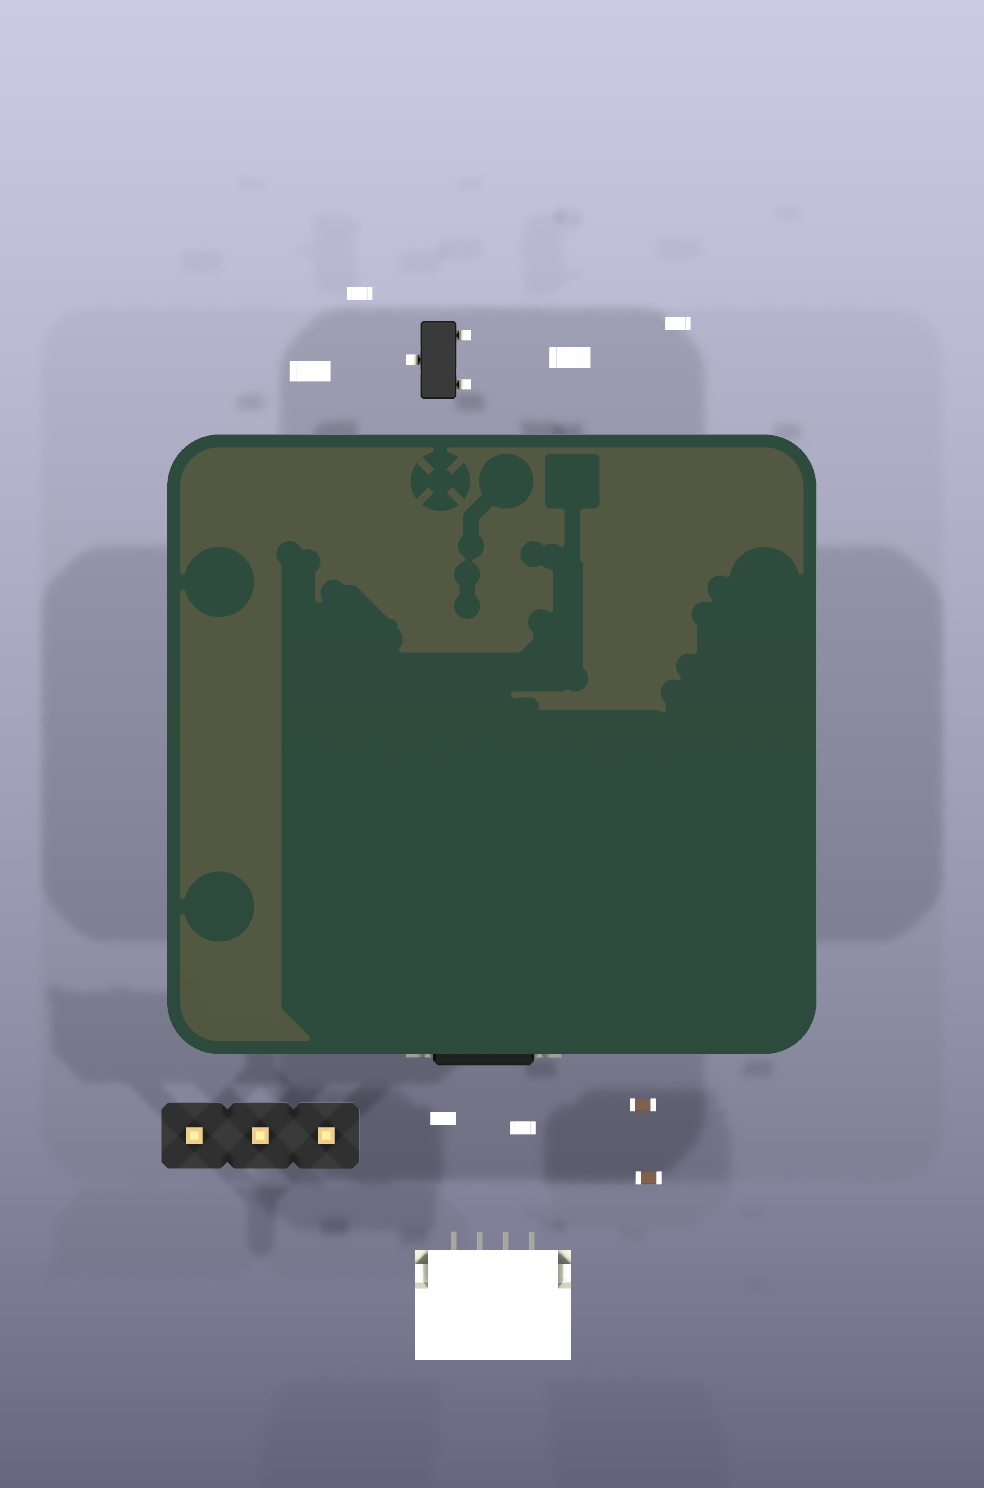
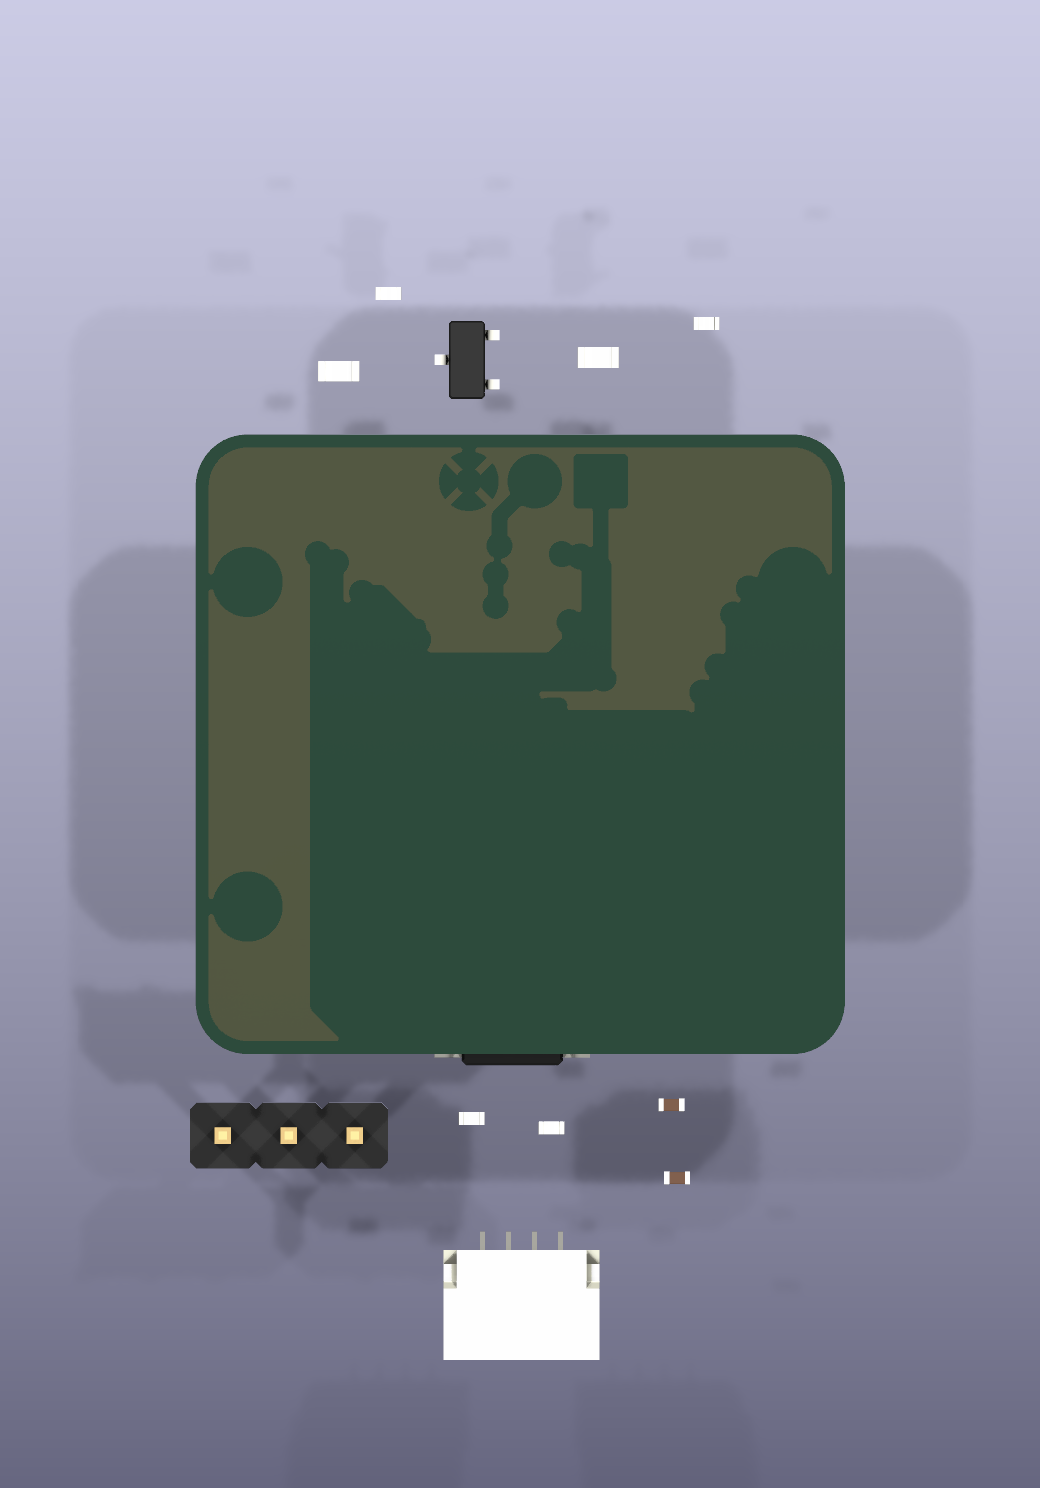
README: give the three board images a matching size
Markdown image syntax cannot set a size, so each image rendered at its
intrinsic one: the PNGs at 1000x1500 and the SVG at its 32.4 x 45.9 mm
page, which is about 122 x 173 px.  The layout column collapsed to a
thumbnail next to two full-height photos.

The images are now <img> tags at a common width="300", and the 3D
renders are generated at the SVG's aspect ratio rather than 2:3 so the
three panels are the same shape.  That ratio is read back out of the
generated SVG instead of being hardcoded, so the images stay matched if
the board outline changes -- KiCad's "board area only" page follows the
content, which currently includes the eleven off-board footprints.

Widening the render from 1000 to 1059 px only adds side margin; nothing
is cropped.

Claude-Session: https://claude.ai/code/session_01NAtQfzwuXNuQMrD3BxPvxL

diff --git a/hardware/tools/render_board.py b/hardware/tools/render_board.py
@@ -19,6 +19,7 @@ Usage (from the repository root):
     uv run hardware/tools/render_board.py
 """
 
+import re
 import subprocess
 import sys
 from pathlib import Path
@@ -32,7 +33,11 @@ KICAD_CLI = "/snap/bin/kicad.kicad-cli"
 # resolve to nothing unless this is handed to it explicitly.
 MODEL_DIR = "/snap/kicad/current/usr/share/kicad/3dmodels"
 
-WIDTH, HEIGHT = 1000, 1500
+# The three images sit side by side in the README, so they are given a common
+# aspect ratio: the SVG's page is whatever KiCad's "board area only" mode
+# computes, and the 3D renders are widened to match it.  Deriving the width
+# instead of hardcoding it keeps them matched if the board outline changes.
+HEIGHT = 1500
 ZOOM = "0.45"  # fits the off-board footprints too; see the note above
 LAYERS = "F.Cu,B.Cu,F.SilkS,Edge.Cuts"
 
@@ -50,23 +55,30 @@ def main():
     IMG.mkdir(parents=True, exist_ok=True)
     missing = set()
 
+    # The SVG goes first: its page sets the aspect ratio the renders copy.
+    svg = IMG / "board-layout.svg"
+    run([KICAD_CLI, "pcb", "export", "svg", "-o", str(svg),
+         "--layers", LAYERS, "--mode-single", "--page-size-mode", "2",
+         "--exclude-drawing-sheet", "--drill-shape-opt", "2", str(PCB)])
+    head = svg.read_text()[:2000]
+    w = float(re.search(r'width="([\d.]+)mm"', head).group(1))
+    h = float(re.search(r'height="([\d.]+)mm"', head).group(1))
+    width = round(HEIGHT * w / h)
+    print(f"{svg.relative_to(HW.parent)}  ({svg.stat().st_size // 1024} KiB, "
+          f"{w:.2f} x {h:.2f} mm, aspect {w / h:.4f})")
+
     for side in ("top", "bottom"):
         out = IMG / f"board-3d-{side}.png"
         r = run([KICAD_CLI, "pcb", "render", "-o", str(out),
-                 "--side", side, "--width", str(WIDTH), "--height", str(HEIGHT),
+                 "--side", side, "--width", str(width), "--height", str(HEIGHT),
                  "--quality", "high", "--background", "opaque", "--zoom", ZOOM,
                  "-D", f"KICAD9_3DMODEL_DIR={MODEL_DIR}", str(PCB)])
         # KiCad reports the miss on stderr, as a wxWidgets trace line.
         for line in (r.stdout + r.stderr).splitlines():
             if "could not find model" in line:
                 missing.add(line.split("'")[1] if "'" in line else line.strip())
-        print(f"{out.relative_to(HW.parent)}  ({out.stat().st_size // 1024} KiB)")
-
-    out = IMG / "board-layout.svg"
-    run([KICAD_CLI, "pcb", "export", "svg", "-o", str(out),
-         "--layers", LAYERS, "--mode-single", "--page-size-mode", "2",
-         "--exclude-drawing-sheet", "--drill-shape-opt", "2", str(PCB)])
-    print(f"{out.relative_to(HW.parent)}  ({out.stat().st_size // 1024} KiB)")
+        print(f"{out.relative_to(HW.parent)}  ({out.stat().st_size // 1024} KiB, "
+              f"{width} x {HEIGHT} px)")
 
     if missing:
         print("\nno 3D model shipped for these, so they render as bare pads:")

diff --git a/README.md b/README.md
@@ -15,7 +15,7 @@ PWM illumination LEDs and an ambient light reading.
 
 | 3D render, top | 3D render, bottom | Layout (copper, silk, outline) |
 |:--------------:|:-----------------:|:------------------------------:|
-| ![Interposer, front side](docs/img/board-3d-top.png) | ![Interposer, back side](docs/img/board-3d-bottom.png) | ![Interposer copper layout](docs/img/board-layout.svg) |
+| <img src="docs/img/board-3d-top.png" alt="Interposer, front side" width="300"> | <img src="docs/img/board-3d-bottom.png" alt="Interposer, back side" width="300"> | <img src="docs/img/board-layout.svg" alt="Interposer copper layout" width="300"> |
 
 25.0 × 23.9 mm, two layers, everything on the front. J1 (left) faces the
 Raspberry Pi and J2 (right) faces the camera; they sit 180° apart so the two
